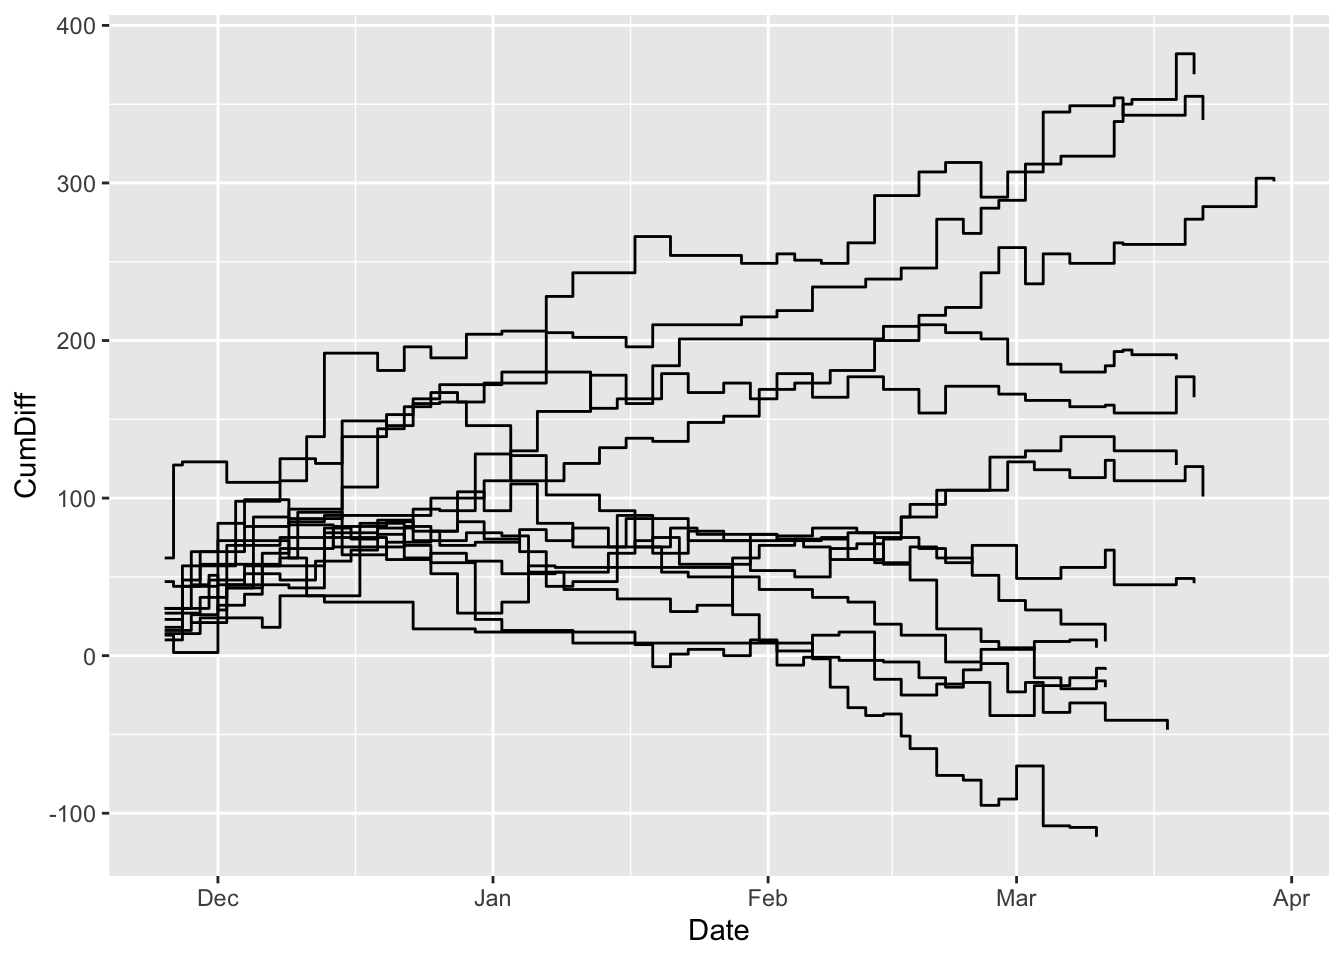
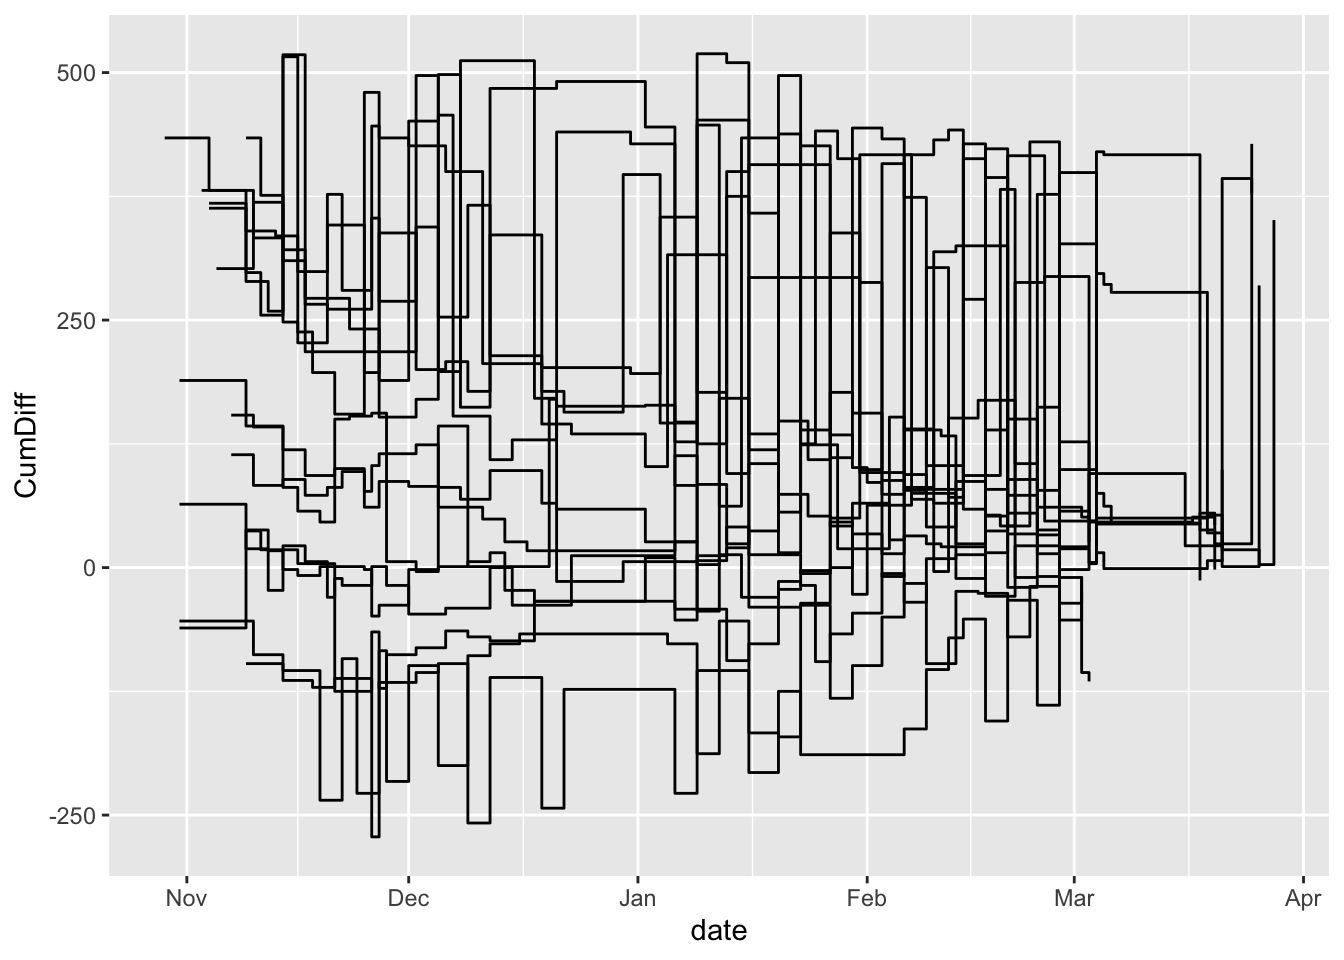
updated stepcharts chapter

diff --git a/sports/stepcharts.html b/sports/stepcharts.html
@@ -369,11 +369,11 @@ code span.wa { color: #60a0b0; font-weight: bold; font-style: italic; } /* Warni
 </header>
 
 <p>Step charts are <strong>a method of showing progress</strong> toward something. They combine showing change over time – <strong>cumulative change over time</strong> – with magnitude. They’re good at inviting comparison.</p>
-<p>There’s great examples out there. First is the Washignton Post looking at <a href="https://www.washingtonpost.com/graphics/sports/lebron-james-michael-jordan-nba-scoring-list/?utm_term=.481074150849">Lebron passing Jordan’s career point total</a>. Another is John Burn-Murdoch’s work at the Financial Times (which is paywalled) about soccer stars. <a href="http://johnburnmurdoch.github.io/projects/goal-lines/CL/">Here’s an example of his work outside the paywall</a>.</p>
+<p>There’s great examples out there. First is the Washington Post looking at <a href="https://www.washingtonpost.com/graphics/sports/lebron-james-michael-jordan-nba-scoring-list/?utm_term=.481074150849">Lebron passing Jordan’s career point total</a>. Another is John Burn-Murdoch’s work at the Financial Times (which is paywalled) about soccer stars. <a href="http://johnburnmurdoch.github.io/projects/goal-lines/CL/">Here’s an example of his work outside the paywall</a>.</p>
 <p>To replicate this, we need cumulative data – data that is the running total of data at a given point. So think of it this way – Maryland scores 50 points in a basketball game and then 50 more the next, their cumulative total at two games is 100 points.</p>
 <p>Step charts can be used for all kinds of things – showing how a player’s career has evolved over time, how a team fares over a season, or franchise history. Let’s walk through an example.</p>
-<p>Let’s look at Fred Hoiberg’s team last season.</p>
-<pre><p><strong>For this walkthrough:</strong></p><p><a href="https://dwillis.github.io/sports-data-files/logs21.csv">
+<p>Let’s look at Maryland’s women basketball team last season.</p>
+<pre><p><strong>For this walkthrough:</strong></p><p><a href="https://dwillis.github.io/sports-data-files/wbb_game_logs_2022.csv">
   <button class="btn btn-danger"><i class="fa fa-save"></i> Download csv file</button>
 </a></p></pre>
 <p>We’ll need the tidyverse.</p>
@@ -382,14 +382,15 @@ code span.wa { color: #60a0b0; font-weight: bold; font-style: italic; } /* Warni
 </div>
 <p>And we need to load our logs data we just downloaded.</p>
 <div class="cell">
-<div class="sourceCode cell-code" id="cb2"><pre class="sourceCode r code-with-copy"><code class="sourceCode r"><span id="cb2-1"><a href="#cb2-1" aria-hidden="true" tabindex="-1"></a>logs <span class="ot">&lt;-</span> <span class="fu">read_csv</span>(<span class="st">"data/logs21.csv"</span>)</span></code><button title="Copy to Clipboard" class="code-copy-button"><i class="bi"></i></button></pre></div>
+<div class="sourceCode cell-code" id="cb2"><pre class="sourceCode r code-with-copy"><code class="sourceCode r"><span id="cb2-1"><a href="#cb2-1" aria-hidden="true" tabindex="-1"></a>logs <span class="ot">&lt;-</span> <span class="fu">read_csv</span>(<span class="st">"data/wbb_game_logs_2022.csv"</span>)</span></code><button title="Copy to Clipboard" class="code-copy-button"><i class="bi"></i></button></pre></div>
 <div class="cell-output cell-output-stderr">
-<pre><code>Rows: 8229 Columns: 48
+<pre><code>Rows: 30438 Columns: 110
 ── Column specification ────────────────────────────────────────────────────────
 Delimiter: ","
-chr   (8): Season, TeamFull, Opponent, HomeAway, W_L, URL, Conference, Team
-dbl  (39): Game, TeamScore, OpponentScore, TeamFG, TeamFGA, TeamFGPCT, Team3...
-date  (1): Date
+chr    (7): away_team_name, home_team_name, league, season_type, neutral_sit...
+dbl  (101): end_year, neutral_site, ncaa_game_id, win, mp, pts, fgm, fga, fg...
+date   (1): date
+time   (1): gametime_east
 
 ℹ Use `spec()` to retrieve the full column specification for this data.
 ℹ Specify the column types or set `show_col_types = FALSE` to quiet this message.</code></pre>
@@ -399,48 +400,48 @@ date  (1): Date
 <p>The first thing we’re going to do is calculate that differential. Then, we’ll group it by the team. After that, we’re going to summarize using a new function called <code>cumsum</code> or cumulative sum – the sum for each game as we go forward. So game 1’s cumsum is the differential of that game. Game 2’s cumsum is Game 1 + Game 2. Game 3 is Game 1 + 2 + 3 and so on.</p>
 <div class="cell">
 <div class="sourceCode cell-code" id="cb4"><pre class="sourceCode r code-with-copy"><code class="sourceCode r"><span id="cb4-1"><a href="#cb4-1" aria-hidden="true" tabindex="-1"></a>difflogs <span class="ot">&lt;-</span> logs <span class="sc">%&gt;%</span> </span>
-<span id="cb4-2"><a href="#cb4-2" aria-hidden="true" tabindex="-1"></a>  <span class="fu">mutate</span>(<span class="at">Differential =</span> TeamScore <span class="sc">-</span> OpponentScore) <span class="sc">%&gt;%</span> </span>
-<span id="cb4-3"><a href="#cb4-3" aria-hidden="true" tabindex="-1"></a>  <span class="fu">group_by</span>(Team) <span class="sc">%&gt;%</span> </span>
+<span id="cb4-2"><a href="#cb4-2" aria-hidden="true" tabindex="-1"></a>  <span class="fu">mutate</span>(<span class="at">Differential =</span> pts <span class="sc">-</span> opp_pts) <span class="sc">%&gt;%</span> </span>
+<span id="cb4-3"><a href="#cb4-3" aria-hidden="true" tabindex="-1"></a>  <span class="fu">group_by</span>(team) <span class="sc">%&gt;%</span> </span>
 <span id="cb4-4"><a href="#cb4-4" aria-hidden="true" tabindex="-1"></a>  <span class="fu">mutate</span>(<span class="at">CumDiff =</span> <span class="fu">cumsum</span>(Differential))</span></code><button title="Copy to Clipboard" class="code-copy-button"><i class="bi"></i></button></pre></div>
 </div>
 <p>Now that we have the cumulative sum for each, let’s filter it down to just Big Ten teams.</p>
 <div class="cell">
-<div class="sourceCode cell-code" id="cb5"><pre class="sourceCode r code-with-copy"><code class="sourceCode r"><span id="cb5-1"><a href="#cb5-1" aria-hidden="true" tabindex="-1"></a>bigdiff <span class="ot">&lt;-</span> difflogs <span class="sc">%&gt;%</span> <span class="fu">filter</span>(Conference <span class="sc">==</span> <span class="st">"Big Ten"</span>)</span></code><button title="Copy to Clipboard" class="code-copy-button"><i class="bi"></i></button></pre></div>
+<div class="sourceCode cell-code" id="cb5"><pre class="sourceCode r code-with-copy"><code class="sourceCode r"><span id="cb5-1"><a href="#cb5-1" aria-hidden="true" tabindex="-1"></a>bigdiff <span class="ot">&lt;-</span> difflogs <span class="sc">%&gt;%</span> <span class="fu">filter</span>(conference <span class="sc">==</span> <span class="st">"Big Ten"</span>)</span></code><button title="Copy to Clipboard" class="code-copy-button"><i class="bi"></i></button></pre></div>
 </div>
 <p>The step chart is it’s own geom, so we can employ it just like we have the others. It works almost exactly the same as a line chart, but it uses the cumulative sum instead of a regular value and, as the name implies, creates a step like shape to the line instead of a curve.</p>
 <div class="cell">
-<div class="sourceCode cell-code" id="cb6"><pre class="sourceCode r code-with-copy"><code class="sourceCode r"><span id="cb6-1"><a href="#cb6-1" aria-hidden="true" tabindex="-1"></a><span class="fu">ggplot</span>() <span class="sc">+</span> <span class="fu">geom_step</span>(<span class="at">data=</span>bigdiff, <span class="fu">aes</span>(<span class="at">x=</span>Date, <span class="at">y=</span>CumDiff, <span class="at">group=</span>Team))</span></code><button title="Copy to Clipboard" class="code-copy-button"><i class="bi"></i></button></pre></div>
+<div class="sourceCode cell-code" id="cb6"><pre class="sourceCode r code-with-copy"><code class="sourceCode r"><span id="cb6-1"><a href="#cb6-1" aria-hidden="true" tabindex="-1"></a><span class="fu">ggplot</span>() <span class="sc">+</span> <span class="fu">geom_step</span>(<span class="at">data=</span>bigdiff, <span class="fu">aes</span>(<span class="at">x=</span>date, <span class="at">y=</span>CumDiff, <span class="at">group=</span>team))</span></code><button title="Copy to Clipboard" class="code-copy-button"><i class="bi"></i></button></pre></div>
 <div class="cell-output-display">
 <p><img src="stepcharts_files/figure-html/unnamed-chunk-6-1.png" class="img-fluid" width="672"></p>
 </div>
 </div>
 <p>Let’s try a different element of the aesthetic: color, but this time inside the aesthetic. Last time, we did the color outside. When you put it inside, you pass it a column name and ggplot will color each line based on what thing that is, and it will create a legend that labels each line that thing.</p>
 <div class="cell">
-<div class="sourceCode cell-code" id="cb7"><pre class="sourceCode r code-with-copy"><code class="sourceCode r"><span id="cb7-1"><a href="#cb7-1" aria-hidden="true" tabindex="-1"></a><span class="fu">ggplot</span>() <span class="sc">+</span> <span class="fu">geom_step</span>(<span class="at">data=</span>bigdiff, <span class="fu">aes</span>(<span class="at">x=</span>Date, <span class="at">y=</span>CumDiff, <span class="at">group=</span>Team, <span class="at">color=</span>Team))</span></code><button title="Copy to Clipboard" class="code-copy-button"><i class="bi"></i></button></pre></div>
+<div class="sourceCode cell-code" id="cb7"><pre class="sourceCode r code-with-copy"><code class="sourceCode r"><span id="cb7-1"><a href="#cb7-1" aria-hidden="true" tabindex="-1"></a><span class="fu">ggplot</span>() <span class="sc">+</span> <span class="fu">geom_step</span>(<span class="at">data=</span>bigdiff, <span class="fu">aes</span>(<span class="at">x=</span>date, <span class="at">y=</span>CumDiff, <span class="at">group=</span>team, <span class="at">color=</span>team))</span></code><button title="Copy to Clipboard" class="code-copy-button"><i class="bi"></i></button></pre></div>
 <div class="cell-output-display">
 <p><img src="stepcharts_files/figure-html/unnamed-chunk-7-1.png" class="img-fluid" width="672"></p>
 </div>
 </div>
 <p>From this, we can see a handful of teams in the Big Ten had negative point differentials last season. But which is which? And which one is Maryland? Too many colors and it’s too hard to tell. How to sort that out? Let’s add some helpers beyond layering.</p>
-<p>Let’s look at the top team plus Maryland.</p>
+<p>Let’s look at Maryland, plus another team: Purdue.</p>
 <div class="cell">
-<div class="sourceCode cell-code" id="cb8"><pre class="sourceCode r code-with-copy"><code class="sourceCode r"><span id="cb8-1"><a href="#cb8-1" aria-hidden="true" tabindex="-1"></a>umd <span class="ot">&lt;-</span> bigdiff <span class="sc">%&gt;%</span> <span class="fu">filter</span>(Team <span class="sc">==</span> <span class="st">"Maryland"</span>)</span>
-<span id="cb8-2"><a href="#cb8-2" aria-hidden="true" tabindex="-1"></a>il <span class="ot">&lt;-</span> bigdiff <span class="sc">%&gt;%</span> <span class="fu">filter</span>(Team <span class="sc">==</span> <span class="st">"Illinois"</span>)</span></code><button title="Copy to Clipboard" class="code-copy-button"><i class="bi"></i></button></pre></div>
+<div class="sourceCode cell-code" id="cb8"><pre class="sourceCode r code-with-copy"><code class="sourceCode r"><span id="cb8-1"><a href="#cb8-1" aria-hidden="true" tabindex="-1"></a>umd <span class="ot">&lt;-</span> bigdiff <span class="sc">%&gt;%</span> <span class="fu">filter</span>(team <span class="sc">==</span> <span class="st">"Maryland"</span>)</span>
+<span id="cb8-2"><a href="#cb8-2" aria-hidden="true" tabindex="-1"></a>pu <span class="ot">&lt;-</span> bigdiff <span class="sc">%&gt;%</span> <span class="fu">filter</span>(team <span class="sc">==</span> <span class="st">"Purdue"</span>)</span></code><button title="Copy to Clipboard" class="code-copy-button"><i class="bi"></i></button></pre></div>
 </div>
 <p>Let’s introduce a couple of new things here. First, note when I take the color OUT of the aesthetic, the legend disappears.</p>
 <p>The second thing I’m going to add is the annotation layer. In this case, I am adding a text annotation layer, and I can specify where by adding in a x and a y value where I want to put it. This takes some finesse. After that, I’m going to add labels and a theme.</p>
 <div class="cell">
 <div class="sourceCode cell-code" id="cb9"><pre class="sourceCode r code-with-copy"><code class="sourceCode r"><span id="cb9-1"><a href="#cb9-1" aria-hidden="true" tabindex="-1"></a><span class="fu">ggplot</span>() <span class="sc">+</span> </span>
-<span id="cb9-2"><a href="#cb9-2" aria-hidden="true" tabindex="-1"></a>  <span class="fu">geom_step</span>(<span class="at">data=</span>bigdiff, <span class="fu">aes</span>(<span class="at">x=</span>Date, <span class="at">y=</span>CumDiff, <span class="at">group=</span>Team), <span class="at">color=</span><span class="st">"light grey"</span>) <span class="sc">+</span></span>
-<span id="cb9-3"><a href="#cb9-3" aria-hidden="true" tabindex="-1"></a>  <span class="fu">geom_step</span>(<span class="at">data=</span>umd, <span class="fu">aes</span>(<span class="at">x=</span>Date, <span class="at">y=</span>CumDiff, <span class="at">group=</span>Team), <span class="at">color=</span><span class="st">"red"</span>) <span class="sc">+</span> </span>
-<span id="cb9-4"><a href="#cb9-4" aria-hidden="true" tabindex="-1"></a>  <span class="fu">geom_step</span>(<span class="at">data=</span>il, <span class="fu">aes</span>(<span class="at">x=</span>Date, <span class="at">y=</span>CumDiff, <span class="at">group=</span>Team), <span class="at">color=</span><span class="st">"orange"</span>) <span class="sc">+</span></span>
-<span id="cb9-5"><a href="#cb9-5" aria-hidden="true" tabindex="-1"></a>  <span class="fu">annotate</span>(<span class="st">"text"</span>, <span class="at">x=</span>(<span class="fu">as.Date</span>(<span class="st">"2021-02-10"</span>)), <span class="at">y=</span><span class="sc">-</span><span class="dv">70</span>, <span class="at">label=</span><span class="st">"Maryland"</span>) <span class="sc">+</span></span>
-<span id="cb9-6"><a href="#cb9-6" aria-hidden="true" tabindex="-1"></a>  <span class="fu">annotate</span>(<span class="st">"text"</span>, <span class="at">x=</span>(<span class="fu">as.Date</span>(<span class="st">"2021-03-01"</span>)), <span class="at">y=</span><span class="dv">330</span>, <span class="at">label=</span><span class="st">"Illinois"</span>) <span class="sc">+</span></span>
+<span id="cb9-2"><a href="#cb9-2" aria-hidden="true" tabindex="-1"></a>  <span class="fu">geom_step</span>(<span class="at">data=</span>bigdiff, <span class="fu">aes</span>(<span class="at">x=</span>date, <span class="at">y=</span>CumDiff, <span class="at">group=</span>team), <span class="at">color=</span><span class="st">"light grey"</span>) <span class="sc">+</span></span>
+<span id="cb9-3"><a href="#cb9-3" aria-hidden="true" tabindex="-1"></a>  <span class="fu">geom_step</span>(<span class="at">data=</span>umd, <span class="fu">aes</span>(<span class="at">x=</span>date, <span class="at">y=</span>CumDiff, <span class="at">group=</span>team), <span class="at">color=</span><span class="st">"red"</span>) <span class="sc">+</span> </span>
+<span id="cb9-4"><a href="#cb9-4" aria-hidden="true" tabindex="-1"></a>  <span class="fu">geom_step</span>(<span class="at">data=</span>pu, <span class="fu">aes</span>(<span class="at">x=</span>date, <span class="at">y=</span>CumDiff, <span class="at">group=</span>team), <span class="at">color=</span><span class="st">"gold"</span>) <span class="sc">+</span></span>
+<span id="cb9-5"><a href="#cb9-5" aria-hidden="true" tabindex="-1"></a>  <span class="fu">annotate</span>(<span class="st">"text"</span>, <span class="at">x=</span>(<span class="fu">as.Date</span>(<span class="st">"2021-11-10"</span>)), <span class="at">y=</span><span class="dv">70</span>, <span class="at">label=</span><span class="st">"Purdue"</span>) <span class="sc">+</span></span>
+<span id="cb9-6"><a href="#cb9-6" aria-hidden="true" tabindex="-1"></a>  <span class="fu">annotate</span>(<span class="st">"text"</span>, <span class="at">x=</span>(<span class="fu">as.Date</span>(<span class="st">"2022-02-01"</span>)), <span class="at">y=</span><span class="dv">330</span>, <span class="at">label=</span><span class="st">"Maryland"</span>) <span class="sc">+</span></span>
 <span id="cb9-7"><a href="#cb9-7" aria-hidden="true" tabindex="-1"></a>  <span class="fu">labs</span>(</span>
 <span id="cb9-8"><a href="#cb9-8" aria-hidden="true" tabindex="-1"></a>    <span class="at">x=</span><span class="st">"Date"</span>, </span>
 <span id="cb9-9"><a href="#cb9-9" aria-hidden="true" tabindex="-1"></a>    <span class="at">y=</span><span class="st">"Cumulative Point Differential"</span>, </span>
-<span id="cb9-10"><a href="#cb9-10" aria-hidden="true" tabindex="-1"></a>    <span class="at">title=</span><span class="st">"Maryland's late charge"</span>, </span>
-<span id="cb9-11"><a href="#cb9-11" aria-hidden="true" tabindex="-1"></a>    <span class="at">subtitle=</span><span class="st">"The Terps started solidly but didn't gain much until late in the season."</span>, </span>
+<span id="cb9-10"><a href="#cb9-10" aria-hidden="true" tabindex="-1"></a>    <span class="at">title=</span><span class="st">"Ups and Downs for Maryland, Purdue Steadier"</span>, </span>
+<span id="cb9-11"><a href="#cb9-11" aria-hidden="true" tabindex="-1"></a>    <span class="at">subtitle=</span><span class="st">"The Terps had some big swings in point differential in an inconsistent season."</span>, </span>
 <span id="cb9-12"><a href="#cb9-12" aria-hidden="true" tabindex="-1"></a>    <span class="at">caption=</span><span class="st">"Source: Sports-Reference.com | By Derek Willis"</span>) <span class="sc">+</span></span>
 <span id="cb9-13"><a href="#cb9-13" aria-hidden="true" tabindex="-1"></a>  <span class="fu">theme_minimal</span>()</span></code><button title="Copy to Clipboard" class="code-copy-button"><i class="bi"></i></button></pre></div>
 <div class="cell-output-display">
